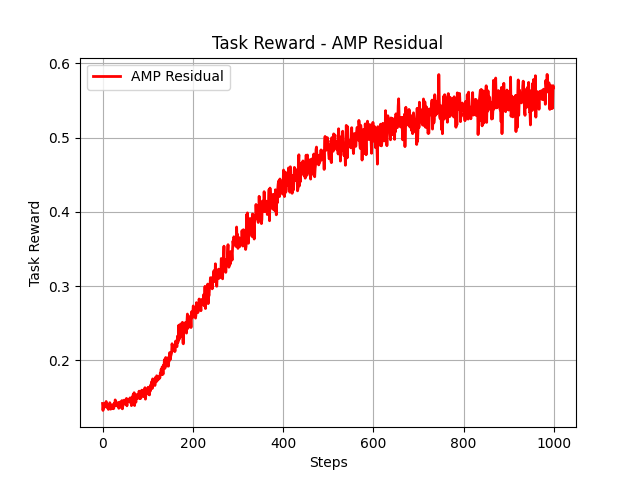
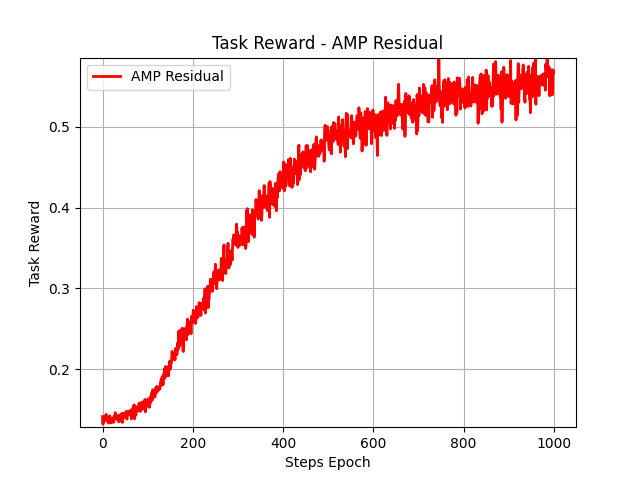
residual

diff --git a/automate_graph2.py b/automate_graph2.py
@@ -20,9 +20,15 @@ def aggregate_data(file_paths, tag):
     all_values = []
 
     for file_path in file_paths:
-        steps, values = extract_data_from_tensorboard(file_path, tag)
-        all_steps.append(steps)
-        all_values.append(values)
+        try:
+            steps, values = extract_data_from_tensorboard(file_path, tag)
+            all_steps.append(steps)
+            all_values.append(values)
+        except ValueError as e:
+            print(e)
+
+    if not all_steps:
+        raise ValueError(f"No valid data found for tag {tag} across the provided files.")
 
     # Align data by the minimum length
     min_steps = min([len(steps) for steps in all_steps])
@@ -61,43 +67,56 @@ def main():
         "No Entropy and No Residual and No Demo": "lightgreen",
     }
 
-    # Plot each group individually for each tag
-    for tag, tag_label in tags.items():
-        for group_name, files in file_groups.items():
-            # Special condition for "Entropy and No Residual and Root"
-            if group_name == "Entropy and No Residual and Root" and tag == "reward_6":
-                tag = "reward_4"
+    y_limits = {}
 
-            steps, values = aggregate_data(files, tag)
-            plt.figure()
-            for v in values:
-                plot_without_error_bands(steps, v, label=f"{group_name}", color=colors[group_name])
-            plt.title(f"{tag_label} - {group_name}")
-            plt.xlabel("Steps")
-            plt.ylabel(tag_label)
-            plt.legend()
-            plt.grid()
-            plt.savefig(f"residual_{tag}_{group_name.replace(' ', '_')}.png")
-            plt.close()
-
-    # Combined plot for each tag
+    # Step 1: Generate combined plots and capture y-axis limits
     for tag, tag_label in tags.items():
         plt.figure()
-        for group_name, files in file_groups.items():
-            # Special condition for "Entropy and No Residual and Root"
-            if group_name == "Entropy and No Residual and Root" and tag == "reward_6":
-                tag = "reward_4"
+        y_min, y_max = float('inf'), float('-inf')
 
-            steps, values = aggregate_data(files, tag)
+        for group_name, files in file_groups.items():
+            effective_tag = tag
+            if group_name == "Entropy and No Residual and Root" and tag == "reward_6":
+                effective_tag = "reward_4"
+
+            steps, values = aggregate_data(files, effective_tag)
             for v in values:
                 plot_without_error_bands(steps, v, label=f"{group_name}", color=colors[group_name])
+                y_min = min(y_min, np.min(v))
+                y_max = max(y_max, np.max(v))
+
+        # Save the y-axis limits for the original tag (e.g., reward_6)
+        y_limits[tag] = (y_min, y_max)
+
         plt.title(f"{tag_label} - Combined")
-        plt.xlabel("Steps")
+        plt.xlabel("Steps Epoch")
         plt.ylabel(tag_label)
         plt.legend(title="Legend", loc="upper right", fontsize="small")
         plt.grid()
         plt.savefig(f"residual_{tag}_all.png")
         plt.close()
+
+    # Step 2: Generate individual plots using the captured y-axis limits
+    for tag, tag_label in tags.items():
+        y_min, y_max = y_limits[tag]
+
+        for group_name, files in file_groups.items():
+            effective_tag = tag
+            if group_name == "Entropy and No Residual and Root" and tag == "reward_6":
+                effective_tag = "reward_4"
+
+            steps, values = aggregate_data(files, effective_tag)
+            plt.figure()
+            for v in values:
+                plot_without_error_bands(steps, v, label=f"{group_name}", color=colors[group_name])
+            plt.ylim(y_min, y_max)  # Apply the same y-axis limits from the combined plot
+            plt.title(f"{tag_label} - {group_name}")
+            plt.xlabel("Steps Epoch")
+            plt.ylabel(tag_label)
+            plt.legend()
+            plt.grid()
+            plt.savefig(f"residual_{tag}_{group_name.replace(' ', '_')}.png")
+            plt.close()
 
 if __name__ == "__main__":
     main()

diff --git a/automate_graphs3.py b/automate_graphs3.py
@@ -44,47 +44,62 @@ def main():
         "AMP Residual": [
             "results/motion_im/amp_location_fastrealimplicit/tb",
         ]
-        
     }
 
-    tags = {"reward_3":"Task Reward","reward_4": "Style Reward", "total_reward": "Total Reward", "episode_len": "Episode Length"}
+    tags = {
+        "reward_3": "Task Reward",
+        "reward_4": "Style Reward",
+        "total_reward": "Total Reward",
+        "episode_len": "Episode Length"
+    }
 
     colors = {
         "Standard AMP": "blue",
         "AMP Residual": "red",
     }
 
-    # Plot each group individually for each tag
-    for tag, tag_label in tags.items():
-        for group_name, files in file_groups.items():
-           
-            steps, values = aggregate_data(files, tag)
-            plt.figure()
-            for v in values:
-                plot_without_error_bands(steps, v, label=f"{group_name}", color=colors[group_name])
-            plt.title(f"{tag_label} - {group_name}")
-            plt.xlabel("Steps")
-            plt.ylabel(tag_label)
-            plt.legend()
-            plt.grid()
-            plt.savefig(f"amp_{tag}_{group_name.replace(' ', '_')}.png")
-            plt.close()
+    y_limits = {}
 
-    # Combined plot for each tag
+    # Step 1: Generate combined plots to determine y-axis limits
     for tag, tag_label in tags.items():
         plt.figure()
+        y_min, y_max = float('inf'), float('-inf')
+
         for group_name, files in file_groups.items():
-           
             steps, values = aggregate_data(files, tag)
             for v in values:
                 plot_without_error_bands(steps, v, label=f"{group_name}", color=colors[group_name])
+                y_min = min(y_min, np.min(v))
+                y_max = max(y_max, np.max(v))
+
+        # Save the y-axis limits for this tag
+        y_limits[tag] = (y_min, y_max)
+
         plt.title(f"{tag_label} - Combined")
-        plt.xlabel("Steps")
+        plt.xlabel("Steps Epoch")
         plt.ylabel(tag_label)
         plt.legend(title="Legend", loc="upper right", fontsize="small")
         plt.grid()
         plt.savefig(f"amp_{tag}_all.png")
         plt.close()
+
+    # Step 2: Generate individual plots using the captured y-axis limits
+    for tag, tag_label in tags.items():
+        y_min, y_max = y_limits[tag]
+
+        for group_name, files in file_groups.items():
+            steps, values = aggregate_data(files, tag)
+            plt.figure()
+            for v in values:
+                plot_without_error_bands(steps, v, label=f"{group_name}", color=colors[group_name])
+            plt.ylim(y_min, y_max)  # Apply the same y-axis limits
+            plt.title(f"{tag_label} - {group_name}")
+            plt.xlabel("Steps Epoch")
+            plt.ylabel(tag_label)
+            plt.legend()
+            plt.grid()
+            plt.savefig(f"amp_{tag}_{group_name.replace(' ', '_')}.png")
+            plt.close()
 
 if __name__ == "__main__":
     main()

diff --git a/tensorboard_table2.py b/tensorboard_table2.py
@@ -37,10 +37,10 @@ def main():
         "Residual and Entropy and Demo": [
             "results/motion_im/chicken_01_realreal2/tb",
         ],
-        "Residual and No Residual and Root": [
+        "Entropy and No Residual and Root": [
             "results/motion_im/chicken_01_realreal3/tb",
         ],
-        "Residual No Entropy and No Demo": [
+        "No Entropy and No Residual and No Demo": [
             "results/motion_im/chicken_01_realreal4/tb",
         ]
     }
@@ -51,8 +51,8 @@ def main():
 
     for tag in tags:
         for group_name, files in file_groups.items():
-            # Special condition for "Residual and No Residual and Root"
-            current_tag = "reward_4" if group_name == "Residual and No Residual and Root" and tag == "reward_6" else tag
+            # Special condition for "Entropy and No Residual and Root"
+            current_tag = "reward_4" if group_name == "Entropy and No Residual and Root" and tag == "reward_6" else tag
 
             max_value, min_value = calculate_max_min(files, current_tag)
             if tag not in results:
@@ -80,6 +80,8 @@ def main():
         table.auto_set_font_size(False)
         table.set_fontsize(10)
         table.auto_set_column_width([0, 1, 2])
+
+        # Set the title for each table
         ax.set_title("Pose Error" if tag in ["reward_6", "reward_4"] else tag.replace('_', ' ').title())
 
     # Adjust layout to ensure clarity
